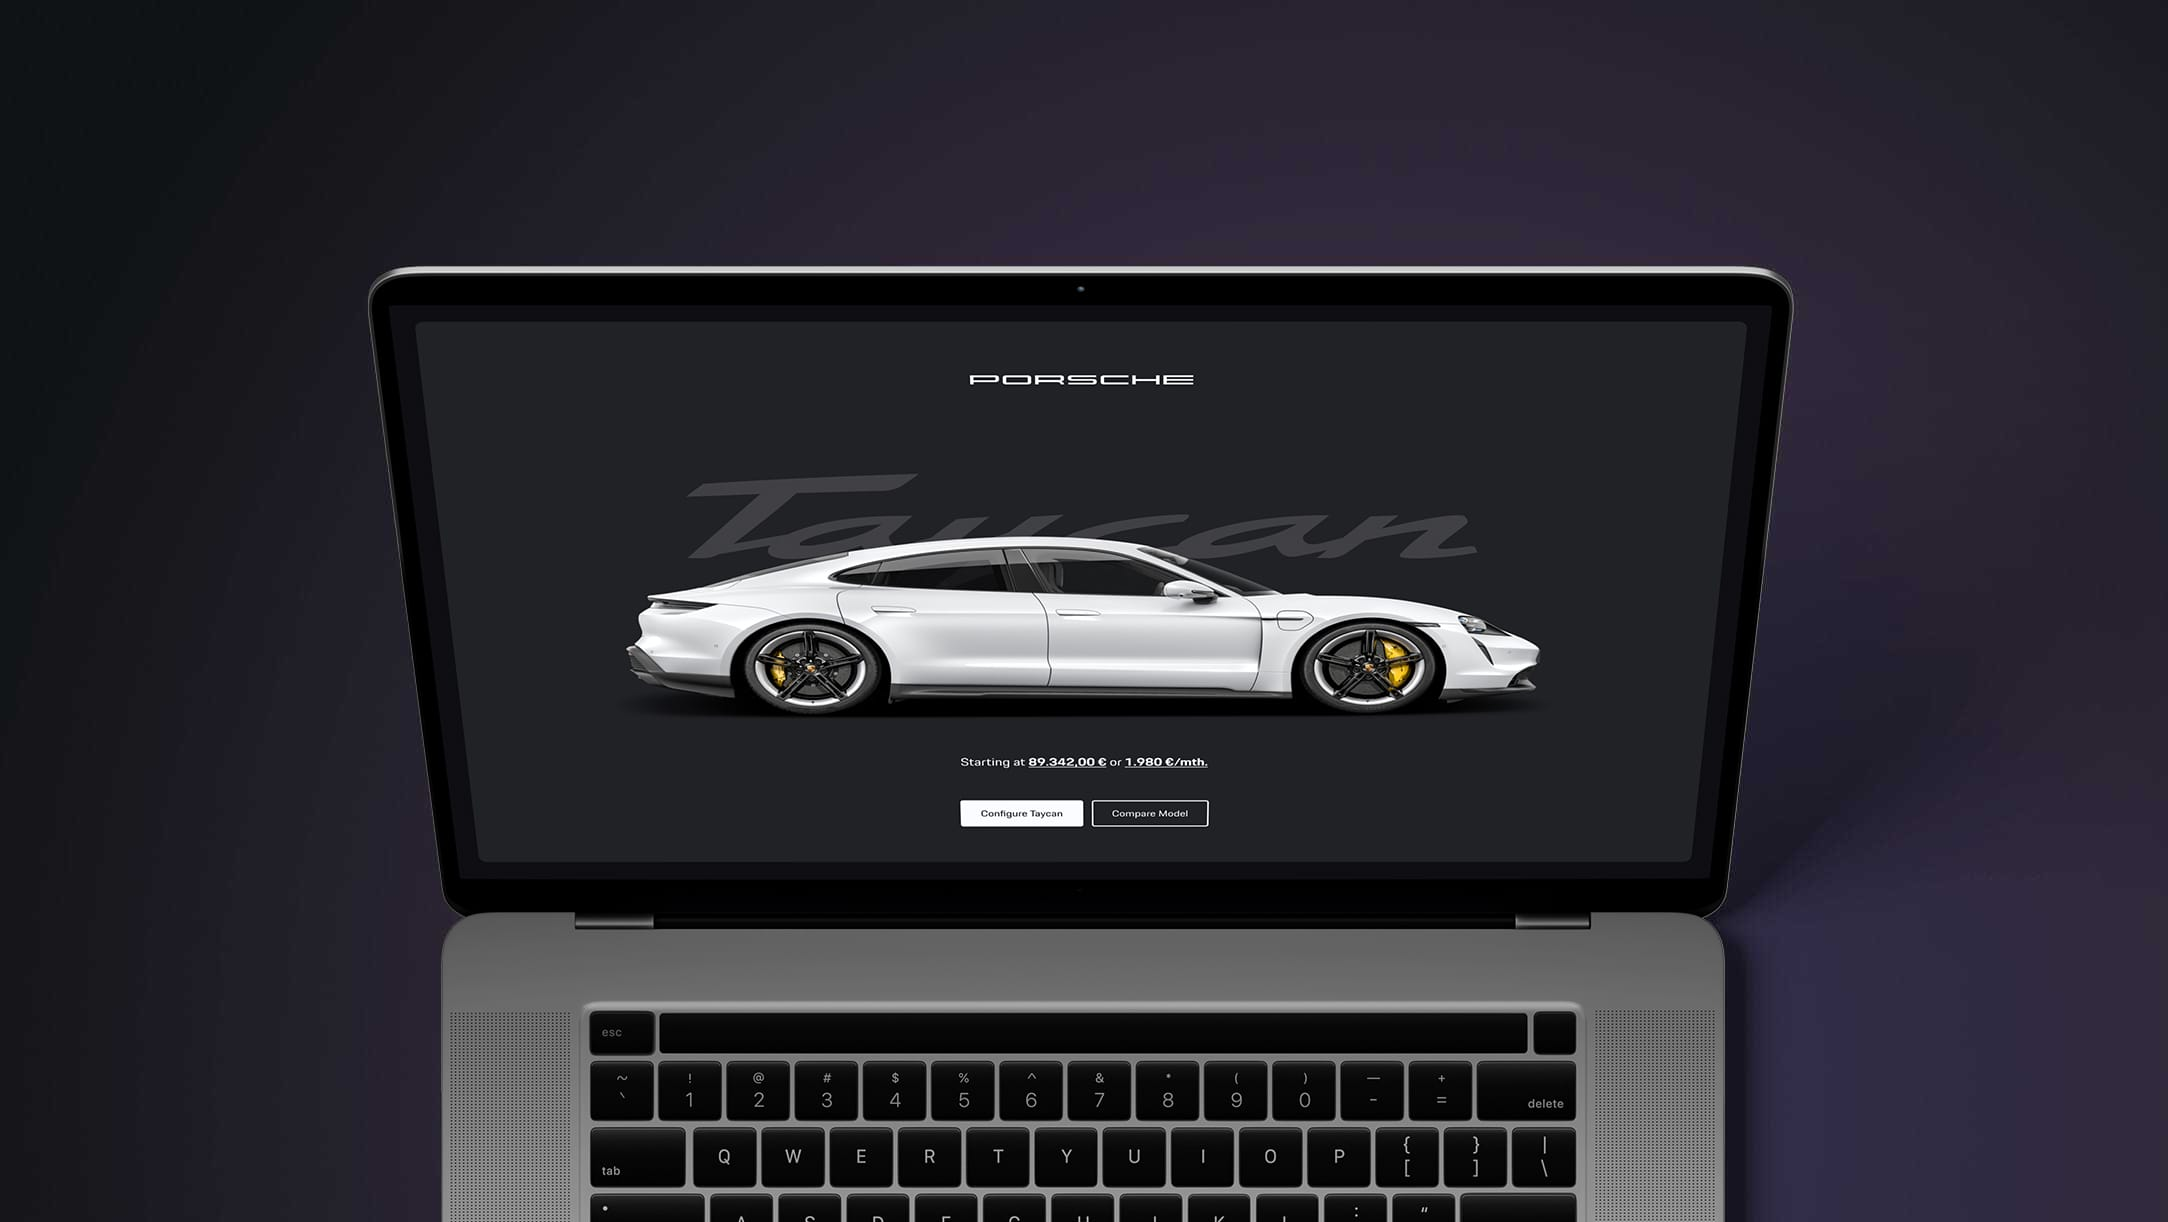
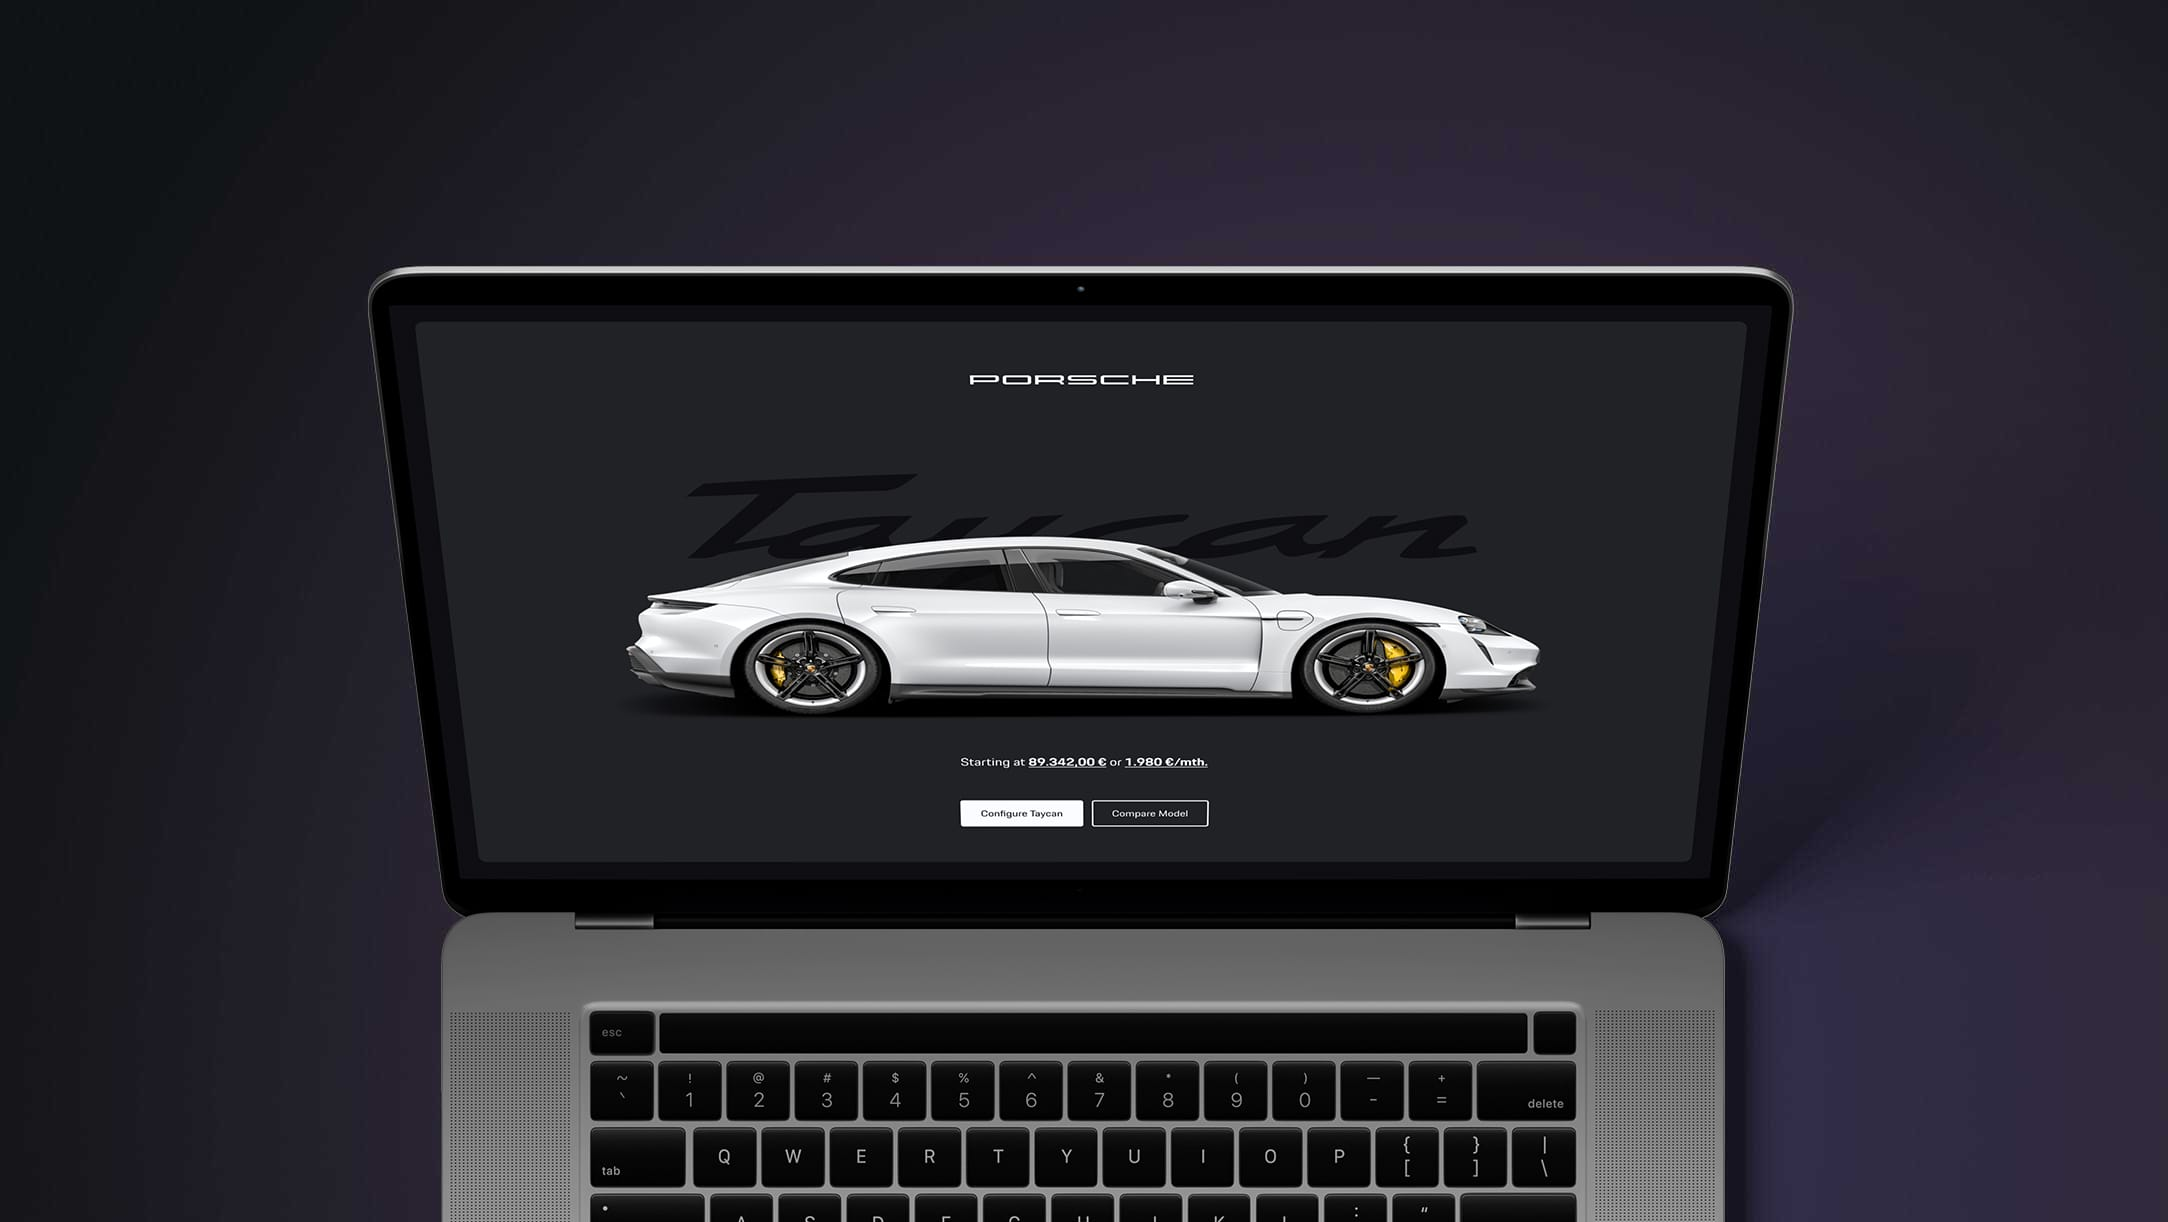
feat(storefront): update assets | sas

Changed region(s): [[0.309, 0.3732, 0.6799, 0.4664]]

diff --git a/packages/storefront/src/App.vue b/packages/storefront/src/App.vue
@@ -64,7 +64,7 @@
     --theme-custom-background-code: rgba(0, 0, 0, 0.06);
     --theme-custom-teaser-gradient-1: #c5c8df;
     --theme-custom-teaser-gradient-2: #ebddf9;
-    --theme-custom-teaser-background: url('~@/assets/tablet.png');
+    --theme-custom-teaser-background: url('~@/assets/tablet-light.png');
 
     @media (prefers-color-scheme: dark) {
       --theme-primary: #{$pds-theme-dark-primary};
@@ -101,7 +101,7 @@
       --theme-custom-background-code: rgba(0, 0, 0, 0.06) !important;
       --theme-custom-teaser-gradient-1: #c5c8df !important;
       --theme-custom-teaser-gradient-2: #ebddf9 !important;
-      --theme-custom-teaser-background: url('~@/assets/tablet.png') !important;
+      --theme-custom-teaser-background: url('~@/assets/tablet-light.png') !important;
     }
 
     &.dark-mode {

diff --git a/packages/storefront/src/components/Masonry.vue b/packages/storefront/src/components/Masonry.vue
@@ -31,7 +31,7 @@
       <picture>
         <source
           v-if="$store.getters.platformTheme === 'auto'"
-          srcset="@/assets/migrate-v2-to-v3.jpg"
+          srcset="@/assets/migrate-v2-to-v3-light.jpg"
           media="(prefers-color-scheme: light)"
         />
         <source
@@ -46,7 +46,7 @@
         />
         <img
           v-else
-          src="@/assets/migrate-v2-to-v3.jpg"
+          src="@/assets/migrate-v2-to-v3-light.jpg"
           alt="Sample Porsche web application with Porsche Design System version 3."
         />
       </picture>
